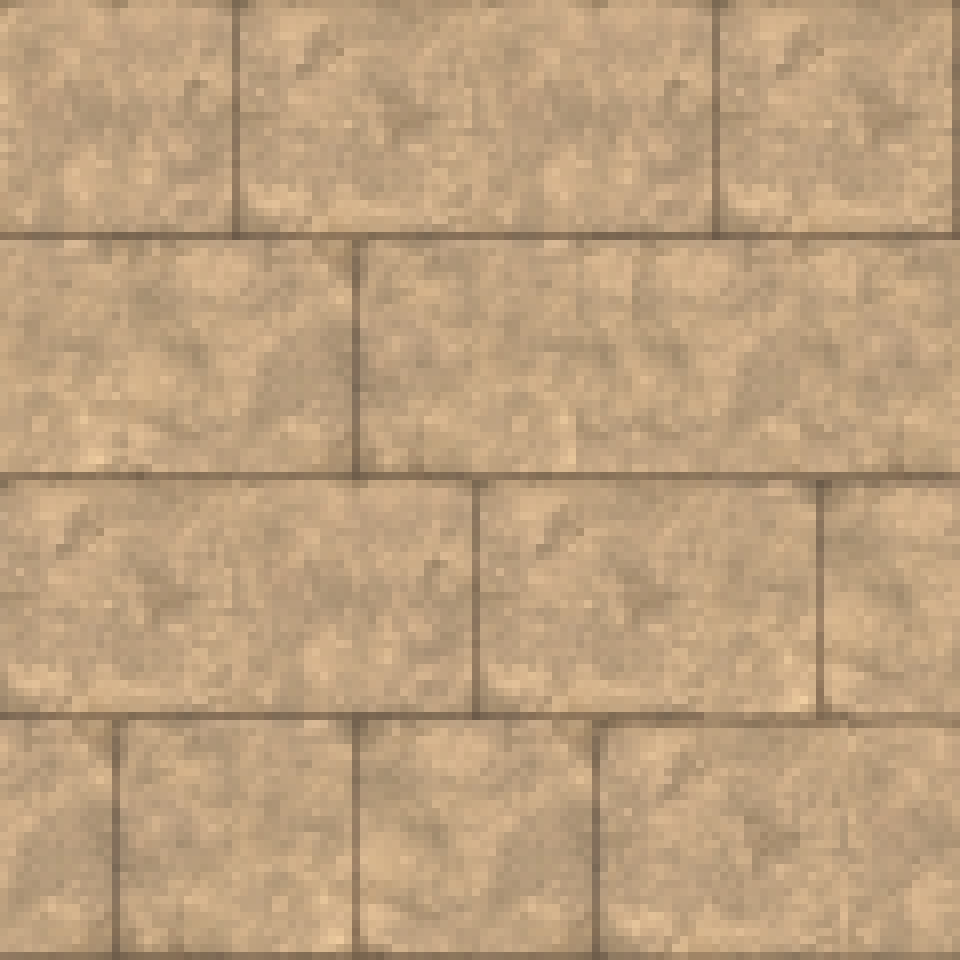
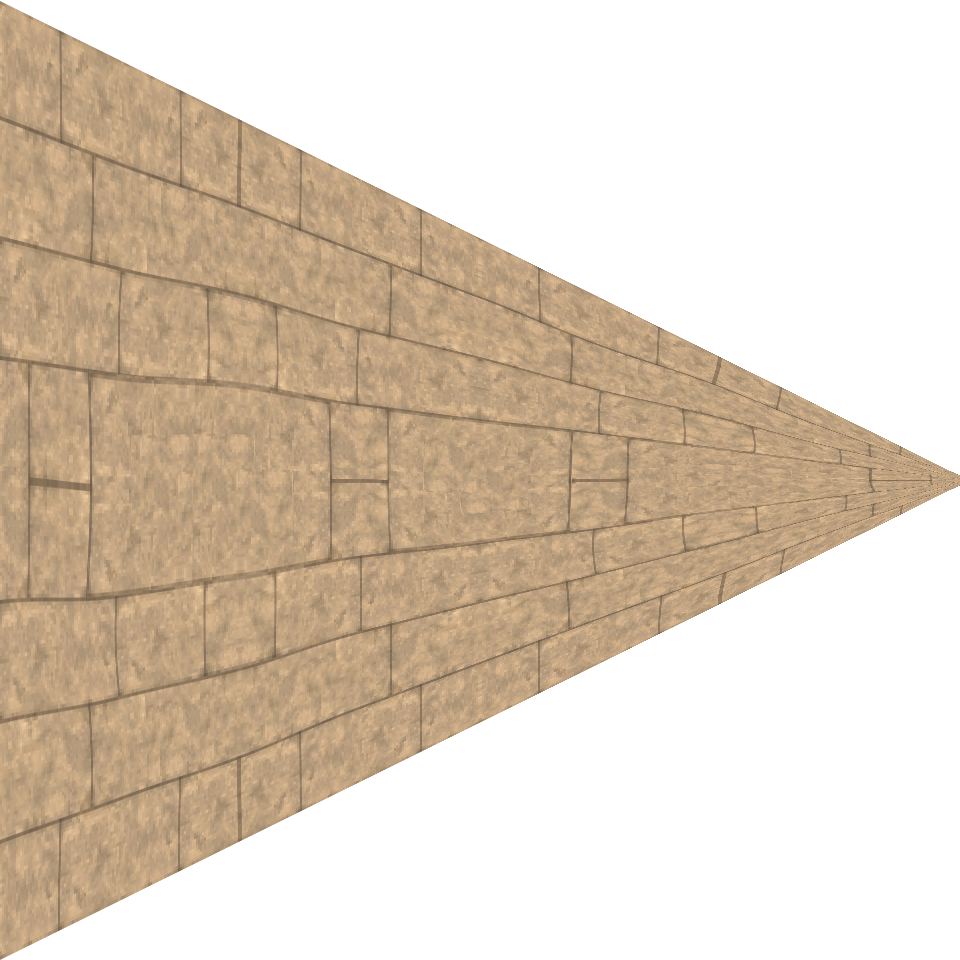
Adds sidewalls in perspective and adds more depth to the wall.

diff --git a/client/src/main/java/nl/tudelft/context/cg2/client/controller/view/scenes/GameSceneController.java b/client/src/main/java/nl/tudelft/context/cg2/client/controller/view/scenes/GameSceneController.java
@@ -1,19 +1,20 @@
 package nl.tudelft.context.cg2.client.controller.view.scenes;
 
-import javafx.application.Platform;
 import nl.tudelft.context.cg2.client.controller.Controller;
 import nl.tudelft.context.cg2.client.controller.view.SceneController;
 import nl.tudelft.context.cg2.client.model.Model;
+import nl.tudelft.context.cg2.client.model.world.World;
 import nl.tudelft.context.cg2.client.view.View;
-import nl.tudelft.context.cg2.client.view.scenes.MenuScene;
+import nl.tudelft.context.cg2.client.view.scenes.GameScene;
 
 /**
  * The Menu scene controller class.
  * Controls the menu scene.
  */
-public class MenuSceneController extends SceneController {
+public class GameSceneController extends SceneController {
 
-    private final MenuScene scene;
+    private final GameScene scene;
+    private final World world;
 
     /**
      * The main scene controller.
@@ -22,9 +23,10 @@ public class MenuSceneController extends SceneController {
      * @param model the model class.
      * @param view the view class.
      */
-    public MenuSceneController(Controller controller, Model model, View view) {
+    public GameSceneController(Controller controller, Model model, View view) {
         super(controller, model, view);
-        scene = view.getMenuScene();
+        scene = view.getGameScene();
+        world = model.getWorld();
     }
 
     /**
@@ -32,17 +34,7 @@ public class MenuSceneController extends SceneController {
      */
     @Override
     protected void setupMouseListeners() {
-        scene.getExampleButtonOne().setOnMouseClicked(event -> {
-            System.out.println("CLICKED!!!");
-        });
 
-        scene.getExampleButtonTwo().setOnMouseClicked(event -> {
-            System.out.println("CLICKED!!!");
-        });
-
-        scene.getExampleButtonThree().setOnMouseClicked(event -> {
-            Platform.exit();
-        });
     }
 
     /**
@@ -52,7 +44,8 @@ public class MenuSceneController extends SceneController {
     protected void setupKeyboardListeners() {
         scene.setOnKeyPressed(event -> {
             switch (event.getCode()) {
-                case SPACE: startGame(); break;
+                case SPACE: world.setInMotion(!world.isInMotion()); break;
+                case BACK_SPACE: view.getMenuScene().show(); break;
             }
         });
     }
@@ -63,14 +56,5 @@ public class MenuSceneController extends SceneController {
     @Override
     protected void setupEventListeners() {
 
-    }
-
-    /**
-     * Starts the game.
-     */
-    private void startGame() {
-        controller.getModel().getWorld().create();
-        view.getGameScene().preprocess();
-        view.getGameScene().show();
     }
 }

diff --git a/client/src/main/java/nl/tudelft/context/cg2/client/view/scenes/GameScene.java b/client/src/main/java/nl/tudelft/context/cg2/client/view/scenes/GameScene.java
@@ -3,8 +3,12 @@ package nl.tudelft.context.cg2.client.view.scenes;
 import javafx.scene.canvas.Canvas;
 import javafx.scene.canvas.GraphicsContext;
 import javafx.scene.effect.BlendMode;
+import javafx.scene.image.Image;
 import javafx.scene.layout.Pane;
 import javafx.scene.paint.Color;
+import javafx.scene.paint.ImagePattern;
+import javafx.scene.shape.Polygon;
+import javafx.scene.transform.Affine;
 import nl.tudelft.context.cg2.client.model.files.ImageCache;
 import nl.tudelft.context.cg2.client.model.world.World;
 import nl.tudelft.context.cg2.client.view.BaseScene;
@@ -126,14 +130,32 @@ public class GameScene extends BaseScene {
      * Redraws all the game element graphics on the scene canvasses.
      */
     private void process() {
+        //Calculate draw variables
+        double width = window.sceneWidthProperty().getValue();
+        double height = window.sceneHeightProperty().getValue();
+        double widthRatio = width / World.WIDTH;
+        double heightRatio = height / World.HEIGHT;
+
+        //Draws the background objects.
+        GraphicsContext backgroundGC = getBackgroundGraphicsContext();
+        backgroundGC.drawImage(ImageCache.IMAGES[1], 0, 0, width * 0.495D, height);
+        backgroundGC.drawImage(ImageCache.IMAGES[2], width * 0.505D, 0, width * 0.495D, height);
+
+        //Draws the world objects on the screen.
         world.getEntities().forEach(e -> {
-            getMainGraphicsContext().drawImage(e.getTexture(),
-                    e.getPosition().x, e.getPosition().y,
-                    e.getSize().x / World.WIDTH * mainCanvas.getWidth(),
-                    e.getSize().y / World.HEIGHT * mainCanvas.getHeight());
+            Image image = e.getTexture();
+            double w = e.getSize().x * widthRatio * e.getDepthScalar();
+            double h = e.getSize().y * heightRatio * e.getDepthScalar();
+            double x = (e.getPosition().x) * widthRatio + ((w / e.getDepthScalar() - w) * 0.5D);
+            double y = e.getPosition().x * heightRatio + ((h / e.getDepthScalar() - h) * 0.5D);
 
-            System.out.println(window.getStage().getHeight() + ", " + this.getHeight() + ", " + mainCanvas.getHeight());
+            getMainGraphicsContext().drawImage(image, x, y, w, h);
 
+            if(e.getDepthScalar() > 0D) {
+                double darkScalar = 0.6D;
+                getMainGraphicsContext().setFill(new Color(0, 0, 0,darkScalar - e.getDepthScalar() * darkScalar));
+                getMainGraphicsContext().fillRect(x, y, w, h);
+            }
         });
     }
 

diff --git a/client/src/main/java/nl/tudelft/context/cg2/client/model/world/World.java b/client/src/main/java/nl/tudelft/context/cg2/client/model/world/World.java
@@ -1,5 +1,6 @@
 package nl.tudelft.context.cg2.client.model.world;
 
+import nl.tudelft.context.cg2.client.model.datastructures.Vector3D;
 import nl.tudelft.context.cg2.client.model.world.factories.WallFactory;
 
 import java.util.ArrayList;
@@ -11,15 +12,18 @@ public class World {
     public static final double DEPTH = 500D;
 
     private final ArrayList<Entity> entities;
+    private boolean inMotion;
 
     public World() {
         this.entities = new ArrayList<>();
+        this.inMotion = false;
     }
 
     /**
      * Creates a new world.
      */
     public void create() {
+        inMotion = false;
         entities.clear();
         entities.add(WallFactory.generateWall());
     }
@@ -30,9 +34,9 @@ public class World {
      * @param dt the passed time in s since the last update.
      */
     public void step(double t, double dt) {
-        entities.forEach(e -> {
-            e.step(t, dt);
-        });
+        if(inMotion) {
+            entities.forEach(e -> e.step(t, dt));
+        }
     }
 
     /**
@@ -41,5 +45,29 @@ public class World {
      */
     public ArrayList<Entity> getEntities() {
         return entities;
+    }
+
+    /**
+     * Returns the world Dimensions as a 3D vector.
+     * @return the world dimension vector.
+     */
+    public Vector3D getDimensions() {
+        return new Vector3D(WIDTH, HEIGHT, DEPTH);
+    }
+
+    /**
+     * Checks if the world is in motion.
+     * @return inMotion boolean.
+     */
+    public boolean isInMotion() {
+        return inMotion;
+    }
+
+    /**
+     * Sets the world in motion.
+     * @param inMotion toggle.
+     */
+    public void setInMotion(boolean inMotion) {
+        this.inMotion = inMotion;
     }
 }

diff --git a/client/src/main/java/nl/tudelft/context/cg2/client/controller/view/ViewController.java b/client/src/main/java/nl/tudelft/context/cg2/client/controller/view/ViewController.java
@@ -1,7 +1,9 @@
 package nl.tudelft.context.cg2.client.controller.view;
 
 import nl.tudelft.context.cg2.client.controller.Controller;
+import nl.tudelft.context.cg2.client.controller.view.scenes.GameSceneController;
 import nl.tudelft.context.cg2.client.controller.view.scenes.MenuSceneController;
+import nl.tudelft.context.cg2.client.model.Model;
 import nl.tudelft.context.cg2.client.view.View;
 
 import java.util.ArrayList;
@@ -16,27 +18,21 @@ public class ViewController {
 
     private final ArrayList<SceneController> sceneControllers;
     private final MenuSceneController menuSceneController;
+    private final GameSceneController gameSceneController;
 
     /**
      * The view controller constructor.
      * @param controller the controller class.
      * @param view the view class.
      */
-    public ViewController(final Controller controller, final View view) {
-        this.menuSceneController = new MenuSceneController(controller, view);
+    public ViewController(final Controller controller, final Model model, final View view) {
+        this.menuSceneController = new MenuSceneController(controller, model, view);
+        this.gameSceneController = new GameSceneController(controller, model, view);
 
         this.sceneControllers = new ArrayList<>(Arrays.asList(
-                menuSceneController
+                menuSceneController, gameSceneController
         ));
 
         sceneControllers.forEach(SceneController::setupListeners);
-    }
-
-    /**
-     * Gets the menu scene controller.
-     * @return the menu scene controller.
-     */
-    public MenuSceneController getMenuSceneController() {
-        return menuSceneController;
     }
 }

diff --git a/client/src/main/java/nl/tudelft/context/cg2/client/controller/view/SceneController.java b/client/src/main/java/nl/tudelft/context/cg2/client/controller/view/SceneController.java
@@ -1,6 +1,7 @@
 package nl.tudelft.context.cg2.client.controller.view;
 
 import nl.tudelft.context.cg2.client.controller.Controller;
+import nl.tudelft.context.cg2.client.model.Model;
 import nl.tudelft.context.cg2.client.view.View;
 
 /**
@@ -10,6 +11,7 @@ import nl.tudelft.context.cg2.client.view.View;
 public abstract class SceneController {
 
     protected final Controller controller;
+    protected final Model model;
     protected final View view;
 
     /**
@@ -17,8 +19,9 @@ public abstract class SceneController {
      * @param controller the controller class.
      * @param view the view class.
      */
-    public SceneController(Controller controller, View view) {
+    public SceneController(Controller controller, Model model, View view) {
         this.controller = controller;
+        this.model = model;
         this.view = view;
     }
 

diff --git a/client/src/main/java/nl/tudelft/context/cg2/client/model/world/entities/Wall.java b/client/src/main/java/nl/tudelft/context/cg2/client/model/world/entities/Wall.java
@@ -6,22 +6,14 @@ import nl.tudelft.context.cg2.client.model.world.Entity;
 
 public class Wall extends Entity {
 
-    private int counter;
-
     public Wall(Image texture, Vector3D position, Vector3D velocity, Vector3D size) {
         super(texture, position, velocity, size);
-        counter = 0;
     }
 
     @Override
     public void step(double t, double dt) {
-        counter++;
-        if(counter < 200) {
-            setPosition(getPosition().add(new Vector3D(0, 2, 0)));
-        } else if(counter < 400) {
-            setPosition(getPosition().add(new Vector3D(0, -2, 0)));
-        } else {
-            counter = 0;
+        if(getPosition().z > 0) {
+            setPosition(getPosition().add(getVelocity().mult(dt)));
         }
     }
 }

diff --git a/client/src/main/java/nl/tudelft/context/cg2/client/view/Window.java b/client/src/main/java/nl/tudelft/context/cg2/client/view/Window.java
@@ -50,8 +50,8 @@ public class Window {
         stage.setY(0D);
         stage.widthProperty().addListener((obs, oldVal, newVal) -> onResized());
         stage.heightProperty().addListener((obs, oldVal, newVal) -> onResized());
-        sceneHeight.bind(stage.heightProperty().subtract(37.6));
-        sceneWidth.bind(stage.widthProperty());
+        sceneWidth.bind(stage.widthProperty().subtract(14D));
+        sceneHeight.bind(stage.heightProperty().subtract(37.6D));
     }
 
     /**
@@ -61,6 +61,7 @@ public class Window {
     public void showScene(BaseScene scene) {
         shownScene = scene;
         stage.setScene(scene);
+        scene.getRoot().resize(sceneWidth.get(), sceneHeight.get());
     }
 
     /**

diff --git a/client/src/main/java/nl/tudelft/context/cg2/client/model/world/factories/WallFactory.java b/client/src/main/java/nl/tudelft/context/cg2/client/model/world/factories/WallFactory.java
@@ -10,8 +10,8 @@ public class WallFactory {
 
     public static Wall generateWall() {
         Image image = ImageCache.IMAGES[0];
-        Vector3D position = new Vector3D(0, 0, World.DEPTH);
-        Vector3D velocity = new Vector3D(0D, 0D, -1D);
+        Vector3D position = new Vector3D(0D, 0, World.DEPTH);
+        Vector3D velocity = new Vector3D(0D, 0D, -60D);
         Vector3D size = new Vector3D(World.WIDTH, World.HEIGHT, 0);
         return new Wall(image, position, velocity, size);
     }

diff --git a/client/src/main/java/nl/tudelft/context/cg2/client/controller/Controller.java b/client/src/main/java/nl/tudelft/context/cg2/client/controller/Controller.java
@@ -23,7 +23,7 @@ public class Controller {
      * @param view The View object, containing the UI controls calling back to this controller.
      */
     public Controller(final Model model, final View view) {
-        this.viewController = new ViewController(this, view);
+        this.viewController = new ViewController(this, model, view);
         this.gameTimer = new GameTimer(model, view);
         this.model = model;
         this.view = view;

diff --git a/client/src/main/java/nl/tudelft/context/cg2/client/model/world/Entity.java b/client/src/main/java/nl/tudelft/context/cg2/client/model/world/Entity.java
@@ -19,6 +19,12 @@ public abstract class Entity {
 
     public abstract void step(double t, double dt);
 
+    public double getDepthScalar() {
+        double slope = 80D;
+        double scalar = slope / (position.z + slope);
+        return scalar > 1D ? 1D : scalar;
+    }
+
     public Image getTexture() {
         return texture;
     }

diff --git a/client/src/main/java/nl/tudelft/context/cg2/client/view/View.java b/client/src/main/java/nl/tudelft/context/cg2/client/view/View.java
@@ -26,7 +26,7 @@ public class View {
     /**
      * The view constructor.
      * @param stage the javafx window being displayed to the user.
-     * @param model
+     * @param model the model that contains elements to be drawn in the window.
      */
     public View(final Stage stage, Model model) {
         this.model = model;
